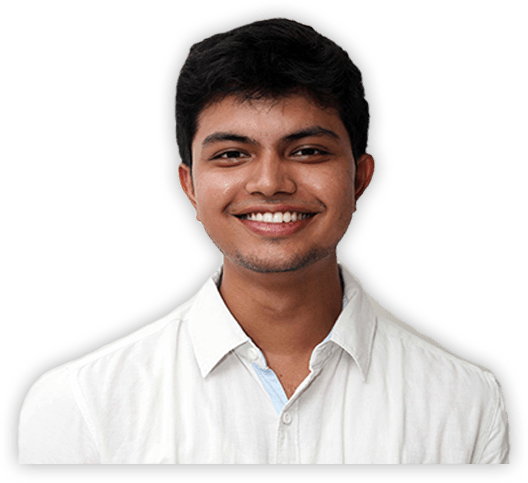
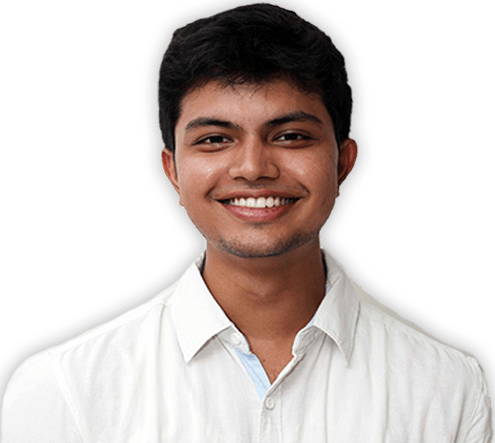
added some work descriptions

diff --git a/src/constants/app.js b/src/constants/app.js
@@ -40,11 +40,7 @@ export const WORK = [
   {
     duration: 'January 2017 - Present',
     projects: [{
-      description: [
-        'I am a Full Stack Web Developer and UI/UX enthusiast who focuses on writing clean, elegant and efficient code.',
-        'I am a Full Stack Web Developer and UI/UX enthusiast who focuses on writing clean, elegant and efficient code.',
-        'I am a Full Stack Web Developer and UI/UX enthusiast who focuses on writing clean, elegant and efficient code.'
-      ],
+      description: '',
       name: 'Kandy Wrappers',
       url: 'https://www.kandy.io/kandy-provides/kandy-wrappers'
     }],
@@ -74,11 +70,7 @@ export const WORK = [
   {
     duration: 'July 2016 - December 2017',
     projects: [{
-      description: [
-        'I am a Full Stack Web Developer and UI/UX enthusiast who focuses on writing clean, elegant and efficient code.',
-        'I am a Full Stack Web Developer and UI/UX enthusiast who focuses on writing clean, elegant and efficient code.',
-        'I am a Full Stack Web Developer and UI/UX enthusiast who focuses on writing clean, elegant and efficient code.'
-      ],
+      description: 'Finished in the top 24 of a coding challenge, which helped me get into the certified Full Stack Training program conducted by NIIT StackRoute instead of the regular trainning modules.',
       name: 'Digital Engagement Practice',
       url: 'https://www.cognizant.com/whitepapers/Digital_Engagement_Practice_overview.pdf'
     }],
@@ -104,19 +96,14 @@ export const WORK = [
   {
     duration: 'June 2016',
     projects: [{
-      description: [
-        'I am a Full Stack Web Developer and UI/UX enthusiast who focuses on writing clean, elegant and efficient code.',
-        'I am a Full Stack Web Developer and UI/UX enthusiast who focuses on writing clean, elegant and efficient code.',
-        'I am a Full Stack Web Developer and UI/UX enthusiast who focuses on writing clean, elegant and efficient code.'
-      ],
+      description: 'Responsible for writing scripts which read massive excel sheets, curate the data into suitable JSON models which were further used to render webpages.',
       name: 'Maya.ai',
       url: 'https://maya.ai/'
     }],
     stack: [
       'jQuery',
       'JavaScript',
-      'JSON',
-      'MS Excel'
+      'JSON'
     ],
     title: 'Crayon Data',
     url: 'https://www.crayondata.com/'
@@ -125,30 +112,22 @@ export const WORK = [
     duration: 'August 2012 - May 2016',
     projects: [
       {
-        description: [
-          'I am a Full Stack Web Developer and UI/UX enthusiast who focuses on writing clean, elegant and efficient code.'
-        ],
+        description: 'Built a registration portal integrating third party APIs to facilitate online payments and automated response mails for handling registrations for our national level cultural fest which saw over 30,000 registrations.',
         name: 'Technical Head - Directorate of Student Affairs',
         url: 'https://www.linkedin.com/company/srmdsa/'
       },
       {
-        description: [
-          'I am a Full Stack Web Developer and UI/UX enthusiast who focuses on writing clean, elegant and efficient code.'
-        ],
+        description: 'The multidisciplinary learnings at this club, working with various clients assisting them with web design/development and branding content nurtured me into the developer I am.',
         name: 'Active Member - Webarch',
         url: 'https://webarchsrm.com/'
       },
       {
-        description: [
-          'I am a Full Stack Web Developer and UI/UX enthusiast who focuses on writing clean, elegant and efficient code.'
-        ],
-        name: 'Convenor - Graphikos (Design Club)'
+        description: 'Co-ordinate the functioning of the student body, planning/execution of various events during the academic year, including Milan \'16 - our annual national level cultural fest for about 25,000 students of the university.',
+        name: 'Cultural Secretary (2015-2016)'
       },
       {
-        description: [
-          'I am a Full Stack Web Developer and UI/UX enthusiast who focuses on writing clean, elegant and efficient code.'
-        ],
-        name: 'Cultural Secretary (2015-2016)'
+        description: 'Lead/Mentor a team of graphic designers responsible for continuous delivery of branding material such as webpages, event posters, banners, logos, graffiti, Tshirt designs, etc.',
+        name: 'Convenor - Graphikos (Design Club)'
       }
     ],
     stack: [
@@ -167,7 +146,7 @@ export const FOOTER = {
   nav: [
     { name: 'About' },
     { name: 'Work' },
-    { name: 'Blog', link: '#' },
+    { name: 'Blog', link: 'https://www.craytographer.com/' },
     { name: 'Resume', link: '#.pdf' }
   ]
 };
@@ -201,5 +180,6 @@ export const CONNECT = [
 ]
 
 export const VIEWS = {
-  about: 'About'
+  about: 'About',
+  work: 'Work'
 }

diff --git a/src/components/Work.js b/src/components/Work.js
@@ -14,9 +14,7 @@ function Work() {
         {organisation.projects.map(project => <li className="Projects" key={project.name}>
           {project.url ? <a href={project.url} target="_blank" rel="noopener noreferrer">{project.name}</a>
             : <span>{project.name}</span>}
-          <ul>
-            {project.description?.map((desc, index) => <li className="Description" key={index}>{desc}</li>)}
-          </ul>
+            <p>{project.description}</p>
         </li>)}
         <div className="Stack">Stack: {organisation.stack?.join(', ')}</div>
       </ul>

diff --git a/src/css/work.css b/src/css/work.css
@@ -10,8 +10,11 @@
   z-index: 98;
 }
 
+.Work a {
+  padding: 0;
+}
+
 .Organization {
-  padding: 10px;
   display: flex;
   flex-direction: column;
 }
@@ -35,11 +38,14 @@
   list-style-type: none;
 }
 
+.Projects p {
+  padding-left: 10px;
+}
+
 .Projects span {
-  padding: 10px;
+  text-decoration: underline;
 }
 
 .Stack {
   font-size: small;
-  padding: 10px;
 }

diff --git a/src/css/header.css b/src/css/header.css
@@ -24,7 +24,6 @@
 
 .Headshot img {
   height: 15vh;
-  margin-top: 0.6vh;
   opacity: 0.97;
 }
 
